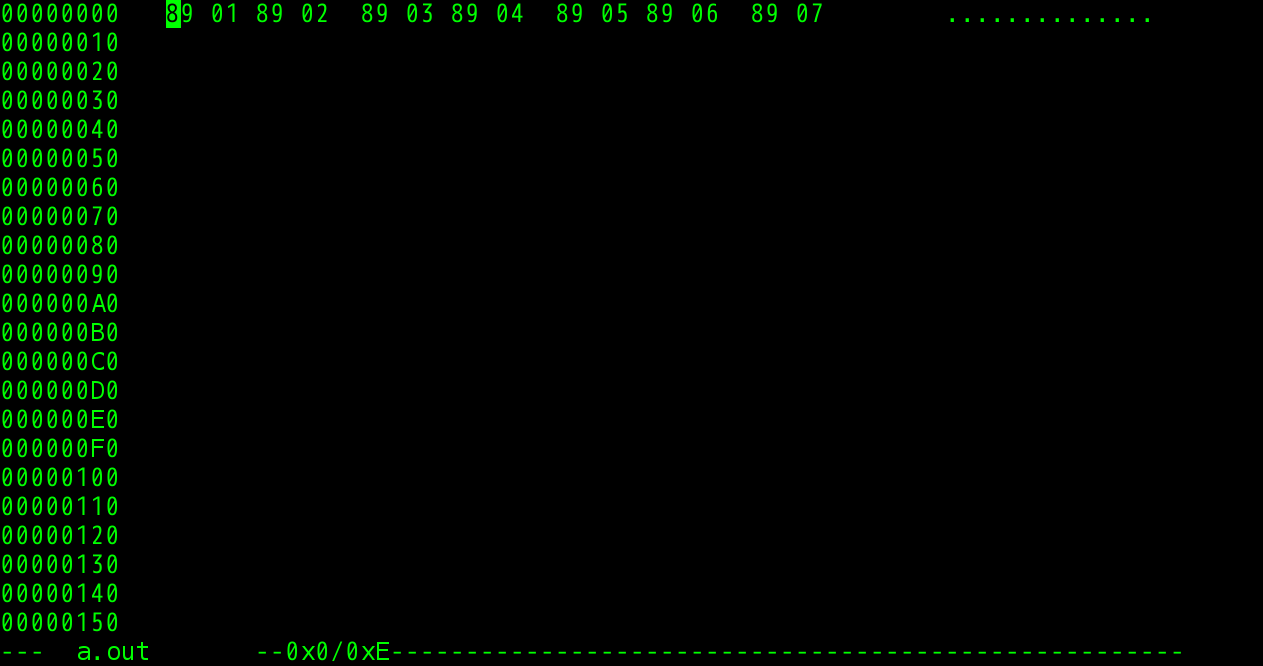
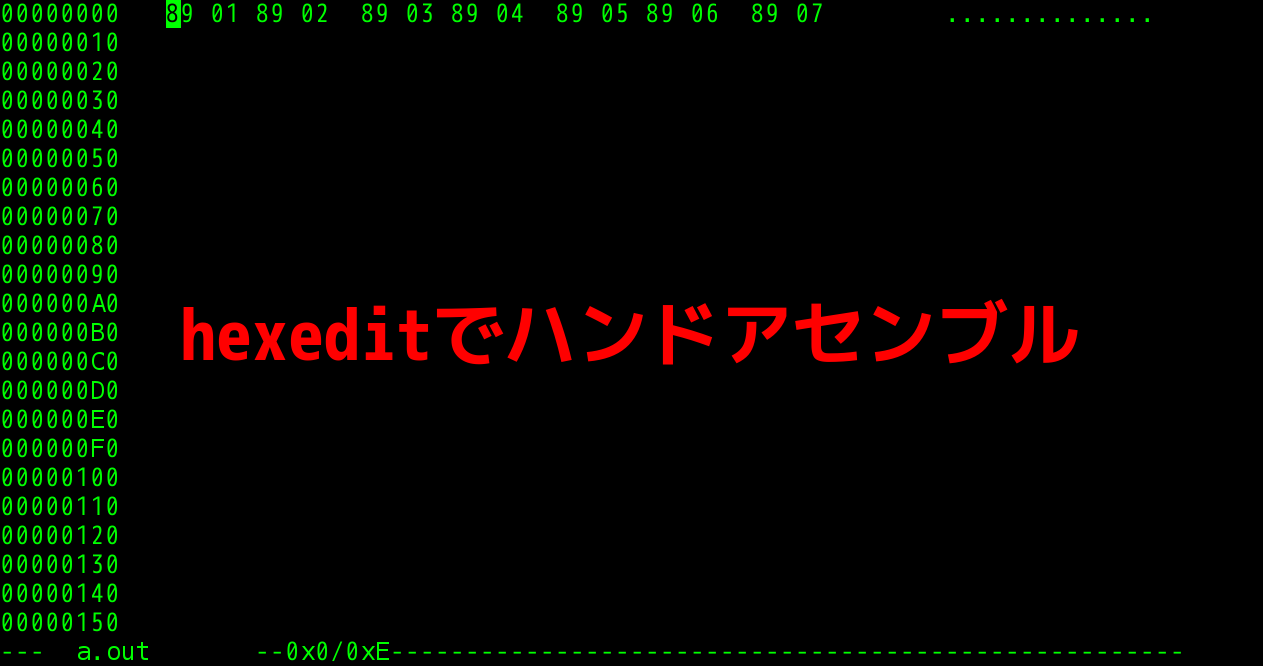
画像にコメント

Changed region(s): [[0.1235, 0.4505, 0.4941, 0.5706], [0.4941, 0.4505, 0.8646, 0.5405]]

diff --git a/index.html b/index.html
@@ -51,20 +51,21 @@
       <img style="position: absolute; top: 0; left: 0;" width="900" height="700" src="./img/hexedit.png" />
     </div>
     <div class="step slide" data-x="5000" data-y="-1500">
-      <img style="position: absolute; top: 0; left: 0;" width="900" height="700" src="./img/hand_asm.png" />
+      <img style="position: absolute; top: 0; left: 0;" width="900" height="700" src="./img/hand_asm0.png" />
     </div>
     <div class="step slide" data-x="6000" data-y="-1500">
+      <img style="position: absolute; top: 0; left: 0;" width="900" height="700" src="./img/hand_asm1.png" />
+    </div>
+    <div class="step slide" data-x="7000" data-y="-1500">
       <img style="position: absolute; top: 0; left: 0;" width="900" height="700" src="./img/runhaskell.png" />
     </div>
-
-    <div class="step slide" data-x="7000" data-y="-1500">
+    <div class="step slide" data-x="8000" data-y="-1500">
       <img style="position: absolute; top: 0; left: 0;" width="900" height="700" src="./img/comparendisasm.png" />
     </div>
-
-    <div class="step slide" data-x="8000" data-y="-1500">
+    <div class="step slide" data-x="9000" data-y="-1500">
       <img style="position: absolute; top: 0; left: 0;" width="900" height="700" src="./img/haskell_mov.png" />
     </div>
-    <div class="step slide" data-x="9000" data-y="-1500">
+    <div class="step slide" data-x="10000" data-y="-1500">
       <img style="position: absolute; top: 0; left: 0;" width="900" height="700" src="./img/haskell_code.png" />
     </div>
 </div>
